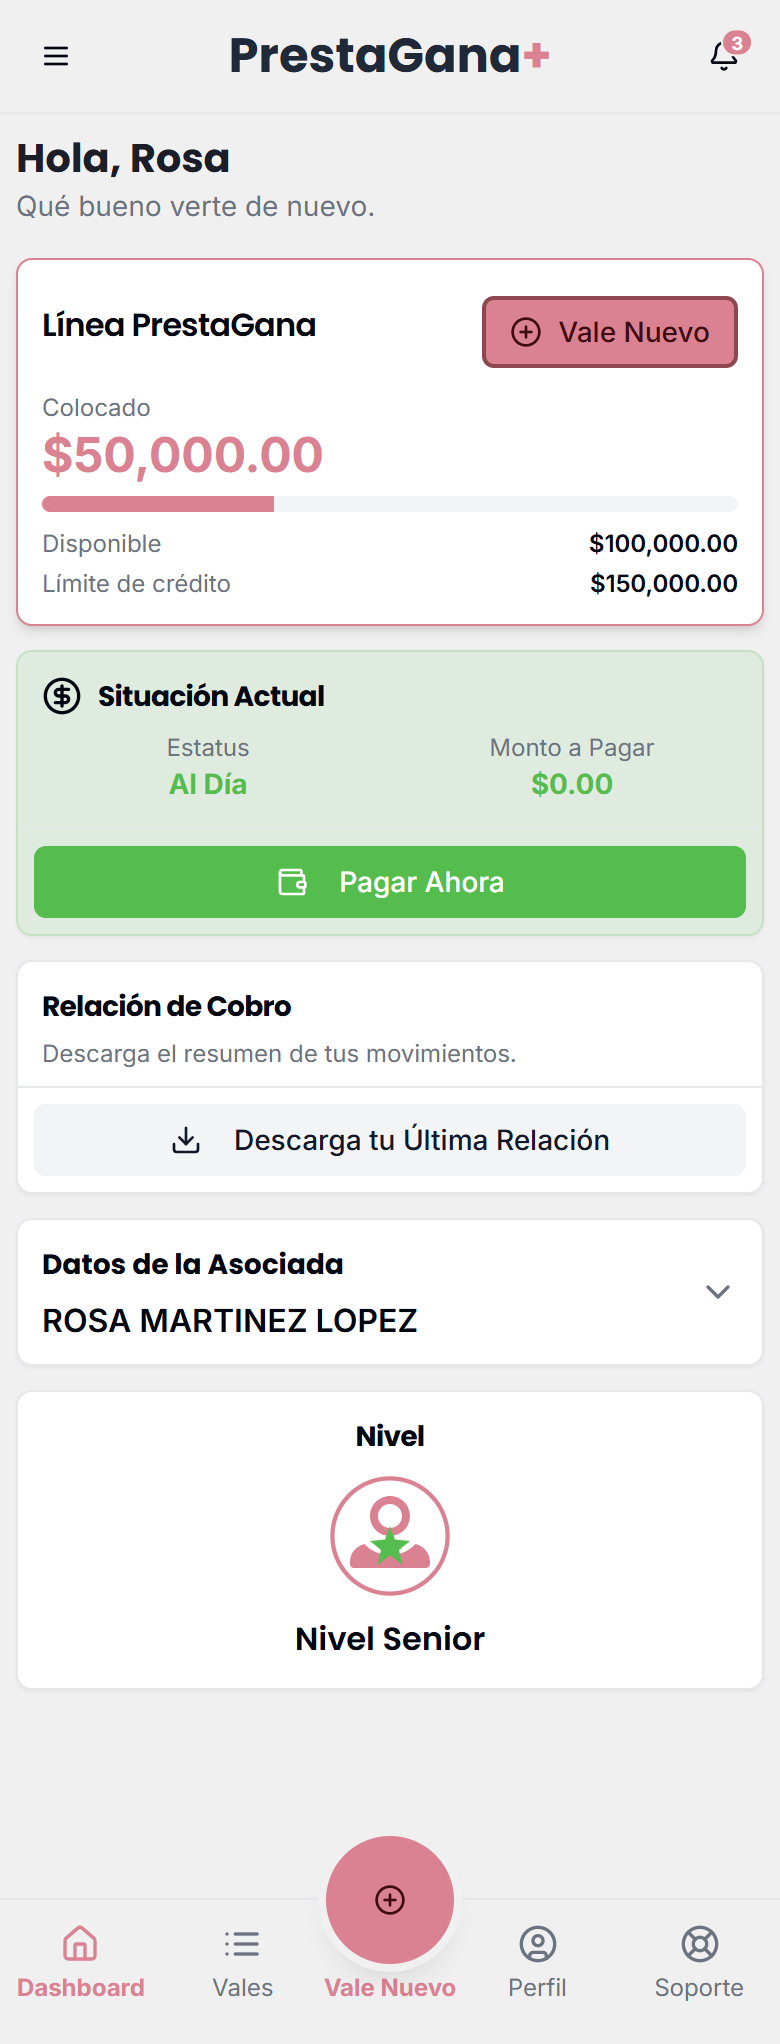
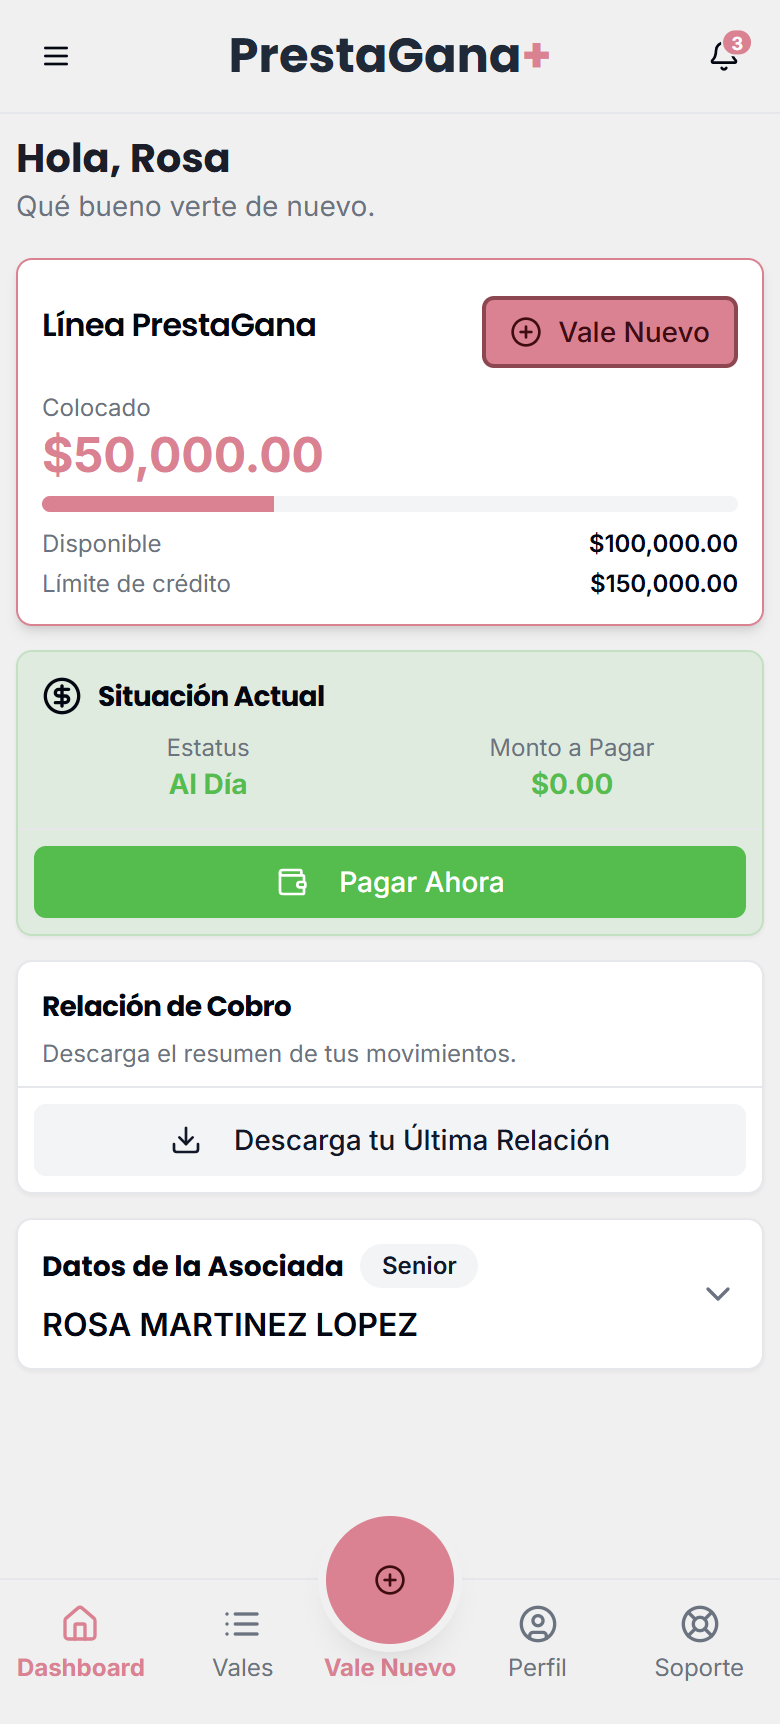
Show associate level as a badge in the info card
- Remove the standalone "Nivel" card.
- "Datos de la Asociada" shows the level as a badge (Senior/Junior,
  without the "Nivel " prefix from the API).
- Spec, e2e check and after screenshots updated.

diff --git a/src/components/distributor-dashboard.tsx b/src/components/distributor-dashboard.tsx
@@ -2,7 +2,7 @@
 'use client';
 
 import { Card, CardContent, CardDescription, CardFooter, CardHeader, CardTitle } from "@/components/ui/card";
-import { Badge } from "./ui/badge";
+import { badgeVariants } from "./ui/badge";
 import { Ban, ChevronDown, CircleDollarSign, Download, Wallet } from "lucide-react";
 import { Progress } from "./ui/progress";
 import { formatCurrency, cn } from "@/lib/utils";
@@ -195,8 +195,13 @@ const CollectionReportCard = ({ data }: { data: any }) => (
     </Card>
 );
 
-// Colapsada por default: título y nombre; al tocarla muestra el resto de los datos.
-const DistributorInfoCard = ({ data }: { data: any }) => (
+// La API manda el nivel como "Nivel Senior"; el badge solo muestra "Senior" o "Junior".
+const levelLabel = (name?: string) => name?.replace(/^nivel\s+/i, '').trim() || null;
+
+// Colapsada por default: título, nivel y nombre; al tocarla muestra el resto de los datos.
+const DistributorInfoCard = ({ data }: { data: any }) => {
+    const level = levelLabel(data.associateLevel?.name);
+    return (
     <Card className="shadow-sm">
         <Collapsible>
             <CollapsibleTrigger
@@ -204,7 +209,14 @@ const DistributorInfoCard = ({ data }: { data: any }) => (
                 data-testid="associate-info-toggle"
             >
                 <span className="space-y-2">
-                    <span className="block font-headline text-sm font-bold">Datos de la Asociada</span>
+                    <span className="flex items-center gap-2">
+                        <span className="font-headline text-sm font-bold">Datos de la Asociada</span>
+                        {level && (
+                            <span className={badgeVariants({ variant: 'secondary' })} data-testid="associate-level">
+                                {level}
+                            </span>
+                        )}
+                    </span>
                     <span className="block font-semibold text-base leading-tight">{data.associateInfo.name}</span>
                 </span>
                 <ChevronDown className="h-5 w-5 flex-shrink-0 text-muted-foreground transition-transform duration-200 group-data-[state=open]:rotate-180" />
@@ -222,51 +234,8 @@ const DistributorInfoCard = ({ data }: { data: any }) => (
             </CollapsibleContent>
         </Collapsible>
     </Card>
-);
-
-const ProfileCard = ({ data }: { data: any }) => (
-     <Card className="shadow-sm flex flex-col justify-center">
-        <CardHeader className="p-3 pb-2">
-            <CardTitle className="font-headline text-sm font-bold text-center">
-                Nivel
-            </CardTitle>
-        </CardHeader>
-        <CardContent className="p-3 pt-0 flex flex-col items-center justify-center space-y-1">
-             <div className="relative w-16 h-16">
-                <svg viewBox="0 0 120 120" className="absolute inset-0 w-full h-full">
-                    <circle cx="60" cy="60" r="54" stroke="hsl(var(--primary))" strokeWidth="4" fill="hsl(var(--card))" />
-                </svg>
-                <div className="relative z-10 w-full h-full flex items-center justify-center">
-                    <svg
-                        className="w-12 h-12 text-primary"
-                        fill="currentColor"
-                        viewBox="0 0 24 24"
-                        xmlns="http://www.w3.org/2000/svg"
-                        >
-                        <path
-                            fillRule="evenodd"
-                            clipRule="evenodd"
-                            d="M12 2C9.23858 2 7 4.23858 7 7C7 9.76142 9.23858 12 12 12C14.7614 12 17 9.76142 17 7C17 4.23858 14.7614 2 12 2ZM9 7C9 5.34315 10.3431 4 12 4C13.6569 4 15 5.34315 15 7C15 8.65685 13.6569 10 12 10C10.3431 10 9 8.65685 9 7Z"
-                        />
-                        <path
-                            d="M5.62062 14.0049C3.4934 14.5492 2 16.2736 2 18.5V19C2 19.5523 2.44772 20 3 20H21C21.5523 20 22 19.5523 22 19V18.5C22 16.2736 20.5066 14.5492 18.3794 14.0049C16.9234 15.6516 14.6127 16.75 12 16.75C9.38729 16.75 7.07663 15.6516 5.62062 14.0049Z"
-                        />
-                        <path
-                            fillRule="evenodd"
-                            clipRule="evenodd"
-                            d="M12 16.75L15.09 19.25L14.25 15.5L17 13.25L13.24 12.9L12 9.5L10.76 12.9L7 13.25L9.75 15.5L8.91 19.25L12 16.75Z"
-                            fill="hsl(var(--accent))"
-                        />
-                    </svg>
-                </div>
-            </div>
-            <div className="text-center">
-               
-                <h3 className="font-headline text-base font-semibold mt-1">{data.associateLevel.name}</h3>
-            </div>
-        </CardContent>
-    </Card>
-);
+    );
+};
 
 export const DistributorDashboardSkeleton = () => (
     <div className="container mx-auto p-2 md:p-3 pb-20 md:pb-8">
@@ -322,7 +291,6 @@ export default function DistributorDashboard({
                     <PhoneTrackerCard phoneState={phoneState} />
                     <CollectionReportCard data={distributorData} />
                     <DistributorInfoCard data={distributorData} />
-                    <ProfileCard data={distributorData} />
                 </div>
             </main>
         </div>

diff --git a/tests/e2e/08-dashboard-estados.spec.ts b/tests/e2e/08-dashboard-estados.spec.ts
@@ -131,6 +131,9 @@ test.describe('Datos de la Asociada', () => {
     await expect(toggle).toContainText('Datos de la Asociada');
     await expect(toggle).toContainText('ROSA MARTINEZ LOPEZ');
     await expect(toggle).toHaveAttribute('aria-expanded', 'false');
+    // El nivel vive como badge en la tarjeta; ya no hay tarjeta "Nivel".
+    await expect(toggle.getByTestId('associate-level')).toHaveText('Senior');
+    await expect(page.getByText('Nivel Senior')).toHaveCount(0);
     const box = await toggle.boundingBox();
     expect(box!.height).toBeGreaterThanOrEqual(44);
     await expect(page.getByText('No. Asociada')).toBeHidden();

diff --git a/docs/specs/dashboard-estados.md b/docs/specs/dashboard-estados.md
@@ -30,7 +30,8 @@ Asociada demo 1000013.
 - Por default **colapsada**: una fila con el título "Datos de la Asociada", el nombre debajo y un chevron a la derecha.
 - Al tocarla se expande y muestra lo de hoy: No. Asociada, Sucursal, Fecha de Alta y Colocación Promedio.
 - `Collapsible` de shadcn existente. Botón accesible (`aria-expanded`), área táctil ≥44px, animación suave.
-- Mismo estilo de tarjeta. "Nivel", "Relación de Cobro" y el resto no se tocan.
+- Mismo estilo de tarjeta. "Relación de Cobro" y el resto no se tocan.
+- **Cambio de alcance (pedido del dueño):** la tarjeta "Nivel" se quita. El nivel pasa a un badge junto al título de la tarjeta colapsada, solo con "Senior" o "Junior" (se quita el prefijo "Nivel " que manda la API). Si la API no manda nivel, no hay badge.
 
 ## 5. Pruebas (DEMO_MODE=true, Playwright, 390x844)
 - Login → `/` con campana (todas las asociadas demo).
